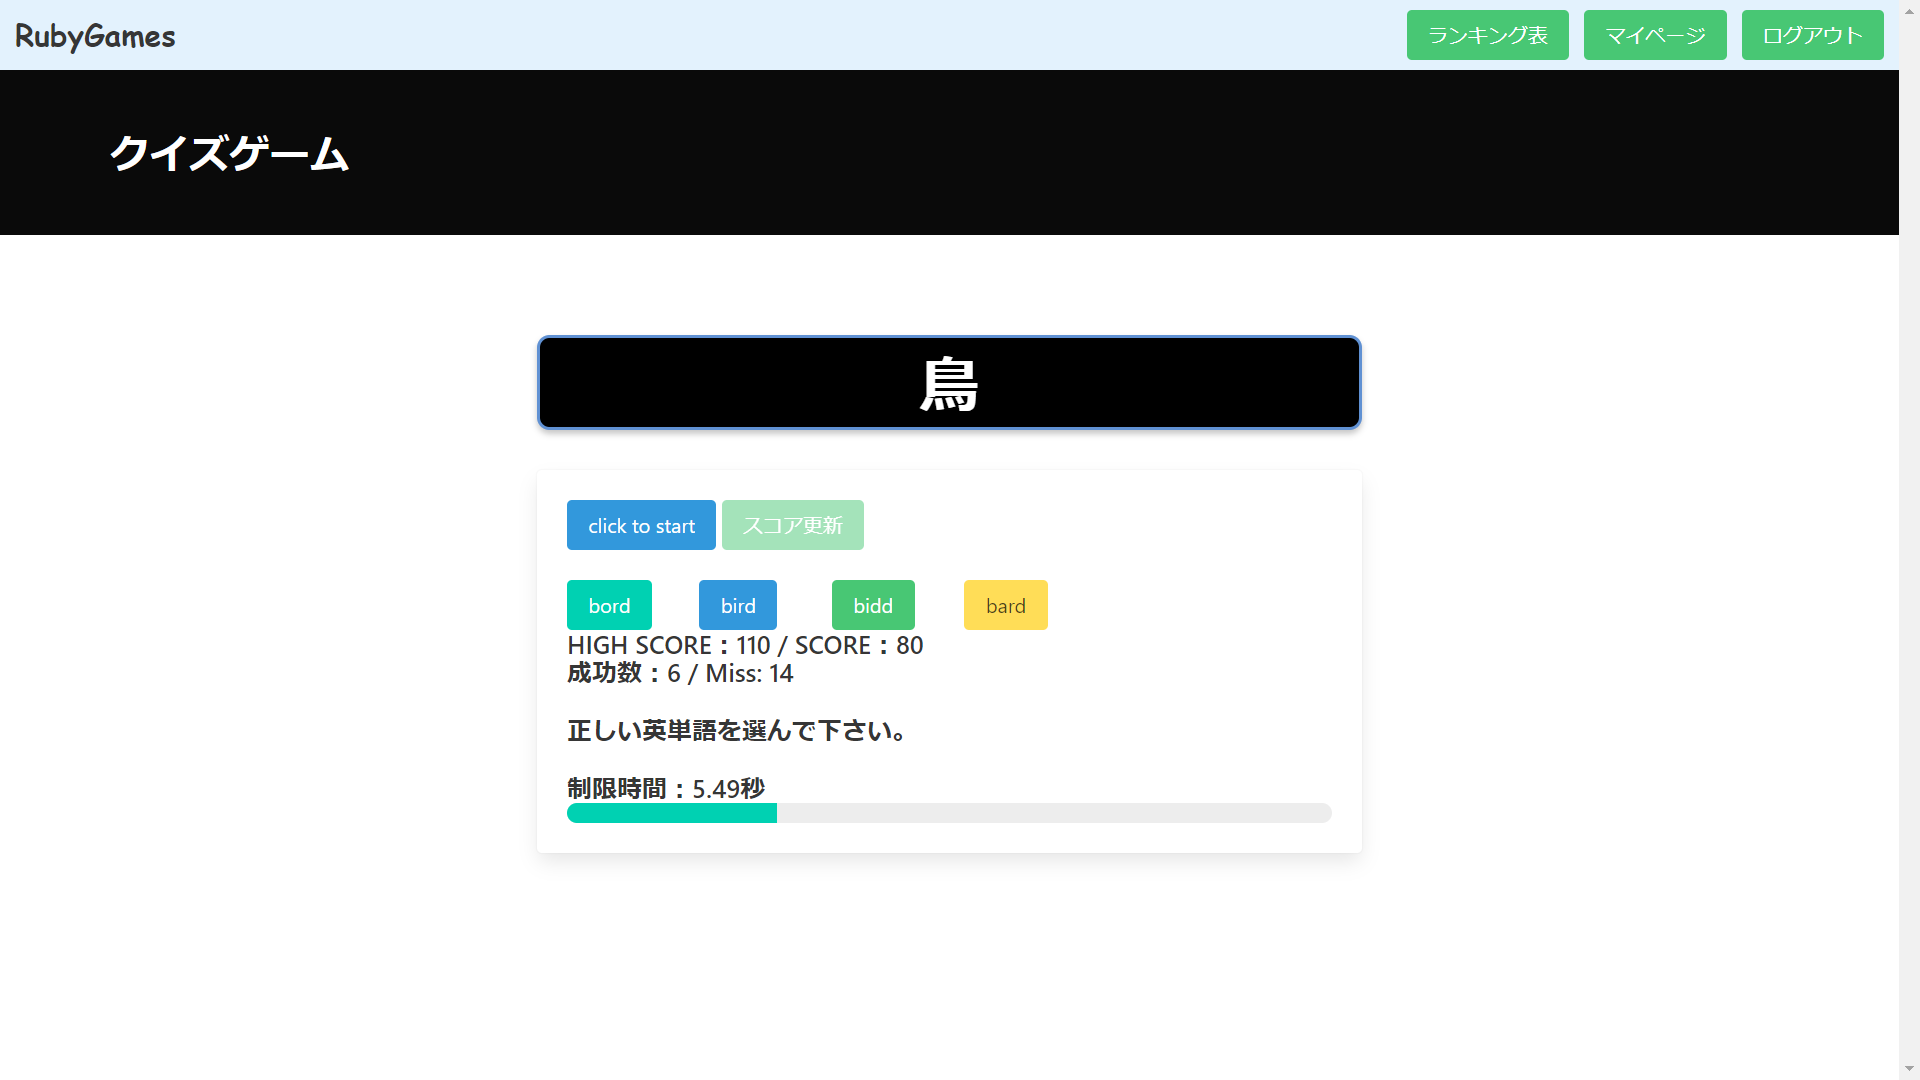
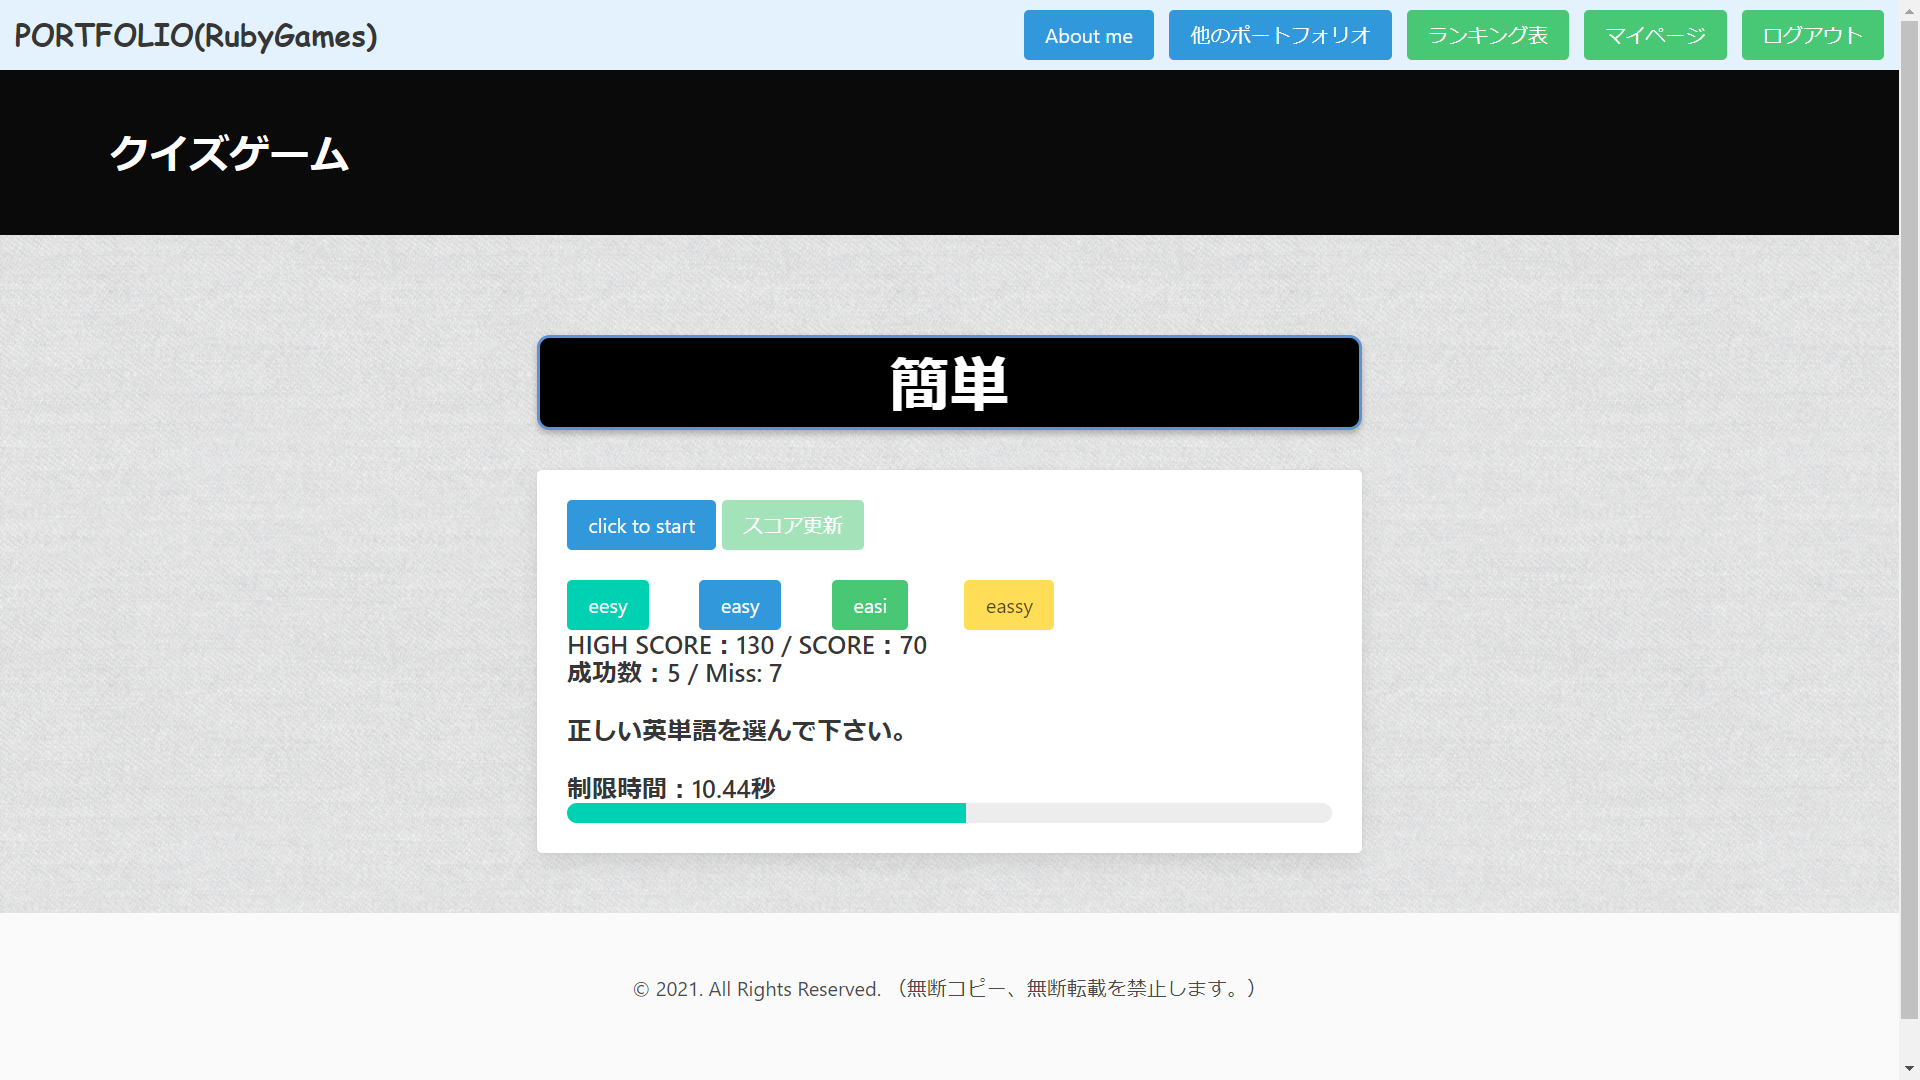
upd link other PORTFOLIO

diff --git a/app/controllers/users_controller.rb b/app/controllers/users_controller.rb
@@ -5,7 +5,7 @@ class UsersController < ApplicationController
   #　 [:index]を指定すると…(index)一覧画面のみは、
   #ユーザー情報を取得できないゲストユーザーの閲覧は可能とする。
   #　それ以外のゲームスコア情報の新規登録、詳細画面、編集画面　はアクセス不可とする。
-  before_action :authenticate_user!, except: [:index, :aboutme]
+  before_action :authenticate_user!, except: [:index, :aboutme, :link]
 
   def aboutme
     # About me用のルートアクション

diff --git a/config/routes.rb b/config/routes.rb
@@ -15,6 +15,7 @@ Rails.application.routes.draw do
 #  get 'users/edit'
 
 get  '/aboutme',    to: 'users#aboutme' #About me
+get  '/link',    to: 'users#link' #Link
 
 
 
